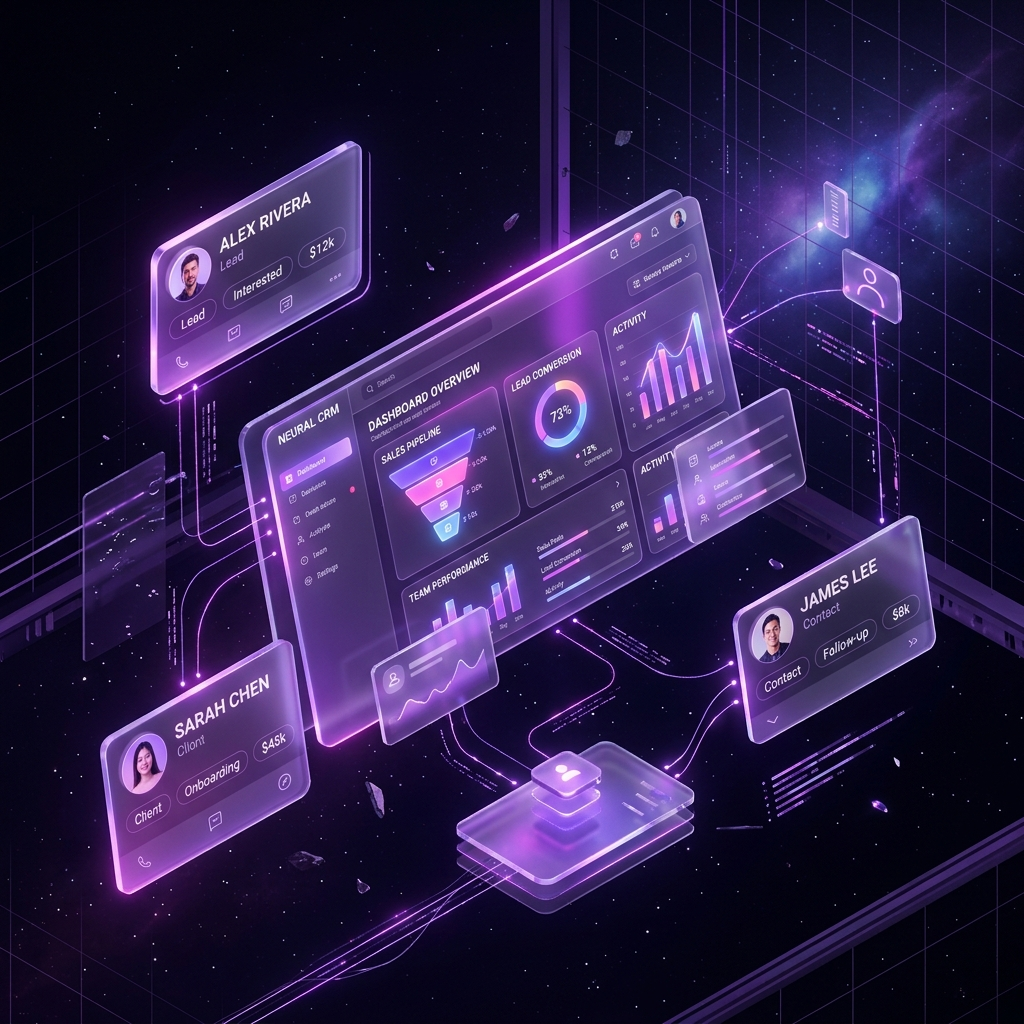
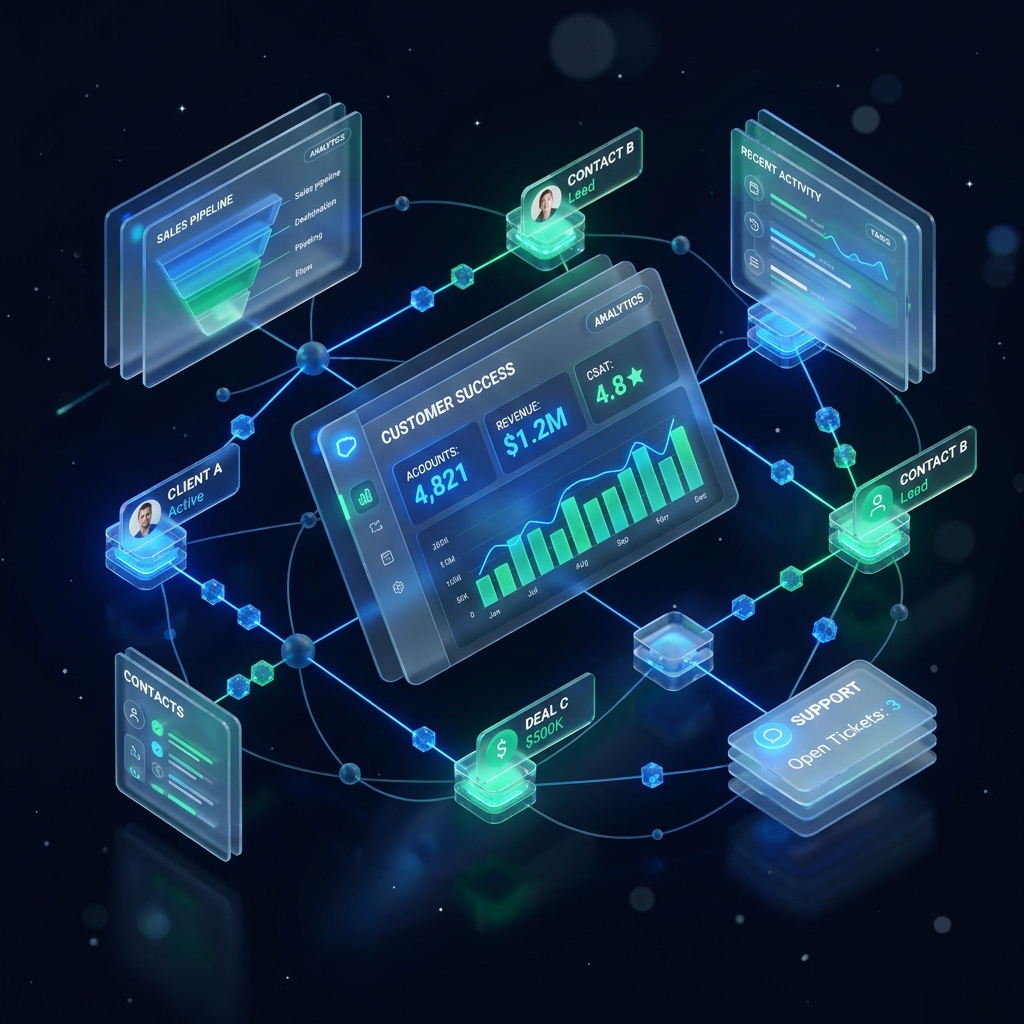
feat: apply EventZone Color DNA and Space Grotesk typography system to CRM UI

diff --git a/styles/globals.css b/styles/globals.css
@@ -896,7 +896,7 @@ textarea.form-input {
   height: 450px;
   top: -10%;
   left: -5%;
-  background: radial-gradient(circle, #7c3aed 0%, rgba(124,58,237,0) 70%);
+  background: radial-gradient(circle, #1A73E8 0%, rgba(26,115,232,0) 70%);
 }
 
 .ag-orb-2 {
@@ -904,7 +904,7 @@ textarea.form-input {
   height: 500px;
   bottom: -15%;
   right: -5%;
-  background: radial-gradient(circle, #4c1d95 0%, rgba(76,29,149,0) 70%);
+  background: radial-gradient(circle, #0B0F19 0%, rgba(11,15,25,0) 70%);
   animation-delay: -6s;
 }
 
@@ -913,7 +913,7 @@ textarea.form-input {
   height: 300px;
   top: 40%;
   left: 45%;
-  background: radial-gradient(circle, #c084fc 0%, rgba(192,132,252,0) 70%);
+  background: radial-gradient(circle, #10B981 0%, rgba(16,185,129,0) 70%);
   opacity: 0.25;
   animation-delay: -3s;
 }
@@ -924,20 +924,20 @@ textarea.form-input {
   width: 100%;
   max-width: 1020px;
   min-height: 580px;
-  background: rgba(15, 15, 23, 0.75);
+  background: rgba(17, 24, 39, 0.75);
   backdrop-filter: blur(28px);
   -webkit-backdrop-filter: blur(28px);
-  border: 1px solid rgba(255, 255, 255, 0.12);
+  border: 1px solid rgba(255, 255, 255, 0.10);
   border-radius: 28px;
   overflow: hidden;
-  box-shadow: 0 30px 60px -12px rgba(0, 0, 0, 0.7), 0 0 40px rgba(124, 58, 237, 0.15);
+  box-shadow: 0 30px 60px -12px rgba(0, 0, 0, 0.8), 0 0 40px rgba(26, 115, 232, 0.2);
   transform-style: preserve-3d;
   transition: transform 0.4s cubic-bezier(0.16, 1, 0.3, 1), box-shadow 0.4s ease;
   animation: floatIn 0.8s cubic-bezier(0.16, 1, 0.3, 1);
 }
 
 .ag-split-card:hover {
-  box-shadow: 0 40px 80px -16px rgba(0, 0, 0, 0.8), 0 0 60px rgba(168, 85, 247, 0.25);
+  box-shadow: 0 40px 80px -16px rgba(0, 0, 0, 0.9), 0 0 60px rgba(26, 115, 232, 0.3);
 }
 
 /* Left Form Side */
@@ -964,12 +964,12 @@ textarea.form-input {
   width: 42px;
   height: 42px;
   border-radius: 12px;
-  background: linear-gradient(135deg, #a855f7 0%, #7c3aed 50%, #6d28d9 100%);
+  background: linear-gradient(135deg, #1A73E8 0%, #0B0F19 100%);
   display: flex;
   align-items: center;
   justify-content: center;
   color: #ffffff;
-  box-shadow: 0 8px 20px rgba(168, 85, 247, 0.4);
+  box-shadow: 0 8px 20px rgba(26, 115, 232, 0.4);
 }
 
 .ag-brand-name {
@@ -991,7 +991,7 @@ textarea.form-input {
 
 .ag-subheading {
   font-size: 14px;
-  color: rgba(255, 255, 255, 0.65);
+  color: #9CA3AF;
   line-height: 1.5;
   margin-bottom: 32px;
   transform: translateZ(20px);
@@ -1012,8 +1012,8 @@ textarea.form-input {
   width: 44px;
   height: 54px;
   border-radius: 12px;
-  background: rgba(255, 255, 255, 0.05);
-  border: 1.5px solid rgba(255, 255, 255, 0.15);
+  background: rgba(255, 255, 255, 0.04);
+  border: 1.5px solid rgba(255, 255, 255, 0.10);
   display: flex;
   align-items: center;
   justify-content: center;
@@ -1025,16 +1025,16 @@ textarea.form-input {
 }
 
 .ag-slot.filled {
-  background: rgba(168, 85, 247, 0.15);
-  border-color: #a855f7;
-  color: #c084fc;
-  box-shadow: 0 0 16px rgba(168, 85, 247, 0.35), inset 0 2px 4px rgba(0,0,0,0.2);
+  background: rgba(26, 115, 232, 0.15);
+  border-color: #1A73E8;
+  color: #60a5fa;
+  box-shadow: 0 0 16px rgba(26, 115, 232, 0.4), inset 0 2px 4px rgba(0,0,0,0.2);
   transform: translateY(-2px) scale(1.04);
 }
 
 .ag-slot.active {
-  border-color: #c084fc;
-  box-shadow: 0 0 20px rgba(192, 132, 252, 0.5);
+  border-color: #3b82f6;
+  box-shadow: 0 0 20px rgba(59, 130, 246, 0.5);
   animation: pulseGlow 1.5s ease-in-out infinite;
 }
 
@@ -1059,8 +1059,8 @@ textarea.form-input {
 
 /* Helper Box */
 .ag-helper-box {
-  background: rgba(168, 85, 247, 0.08);
-  border: 1px solid rgba(168, 85, 247, 0.25);
+  background: rgba(26, 115, 232, 0.08);
+  border: 1px solid rgba(26, 115, 232, 0.25);
   backdrop-filter: blur(12px);
   border-radius: 14px;
   padding: 14px 16px;
@@ -1072,14 +1072,14 @@ textarea.form-input {
 }
 
 .ag-helper-icon {
-  color: #c084fc;
+  color: #3b82f6;
   flex-shrink: 0;
   margin-top: 2px;
 }
 
 .ag-helper-text {
   font-size: 12.5px;
-  color: rgba(255, 255, 255, 0.8);
+  color: #9CA3AF;
   line-height: 1.5;
   margin: 0;
 }
@@ -1092,7 +1092,7 @@ textarea.form-input {
 .ag-submit-btn {
   width: 100%;
   height: 54px;
-  background: linear-gradient(135deg, #a855f7 0%, #7c3aed 50%, #6d28d9 100%);
+  background: linear-gradient(135deg, #1A73E8 0%, #1d4ed8 100%);
   color: #ffffff;
   border: none;
   border-radius: 14px;
@@ -1104,13 +1104,13 @@ textarea.form-input {
   justify-content: center;
   gap: 10px;
   transition: all 0.25s cubic-bezier(0.16, 1, 0.3, 1);
-  box-shadow: 0 8px 24px rgba(124, 58, 237, 0.4);
+  box-shadow: 0 8px 24px rgba(26, 115, 232, 0.4);
   transform: translateZ(25px);
 }
 
 .ag-submit-btn:hover {
-  background: linear-gradient(135deg, #c084fc 0%, #a855f7 50%, #7c3aed 100%);
-  box-shadow: 0 12px 32px rgba(168, 85, 247, 0.6);
+  background: linear-gradient(135deg, #3b82f6 0%, #1A73E8 100%);
+  box-shadow: 0 12px 32px rgba(26, 115, 232, 0.6);
   transform: translateZ(32px) translateY(-2px);
 }
 
@@ -1125,9 +1125,9 @@ textarea.form-input {
 }
 
 .ag-error-msg {
-  background: rgba(239, 68, 68, 0.12);
-  border: 1px solid rgba(239, 68, 68, 0.3);
-  color: #fca5a5;
+  background: rgba(225, 29, 72, 0.12);
+  border: 1px solid rgba(225, 29, 72, 0.3);
+  color: #fda4af;
   padding: 12px 16px;
   border-radius: 12px;
   font-size: 13px;
@@ -1139,7 +1139,7 @@ textarea.form-input {
 /* Right Side Spatial Hero */
 .ag-hero-side {
   flex: 0.85;
-  background: linear-gradient(135deg, rgba(124, 58, 237, 0.4) 0%, rgba(76, 29, 149, 0.6) 100%);
+  background: linear-gradient(135deg, rgba(26, 115, 232, 0.35) 0%, rgba(11, 15, 25, 0.8) 100%);
   padding: 40px;
   display: flex;
   flex-direction: column;
@@ -1166,7 +1166,7 @@ textarea.form-input {
   max-width: 320px;
   border-radius: 20px;
   overflow: hidden;
-  box-shadow: 0 24px 48px rgba(0, 0, 0, 0.5), 0 0 0 1px rgba(255, 255, 255, 0.2);
+  box-shadow: 0 24px 48px rgba(0, 0, 0, 0.5), 0 0 0 1px rgba(255, 255, 255, 0.15);
   transform: translateZ(40px) rotateY(-6deg) rotateX(4deg);
   transition: transform 0.4s ease;
 }
@@ -1197,7 +1197,7 @@ textarea.form-input {
 }
 
 .ag-hero-desc {
-  color: rgba(255, 255, 255, 0.75);
+  color: #9CA3AF;
   font-size: 13px;
   line-height: 1.5;
   max-width: 280px;
@@ -1225,8 +1225,9 @@ textarea.form-input {
   width: 20px;
   height: 20px;
   border-radius: 50%;
-  background: rgba(168, 85, 247, 0.3);
-  border: 1px solid rgba(168, 85, 247, 0.5);
+  background: rgba(16, 185, 129, 0.2);
+  border: 1px solid rgba(16, 185, 129, 0.4);
+  color: #10B981;
   display: flex;
   align-items: center;
   justify-content: center;
